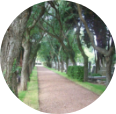
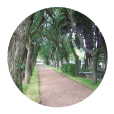
fotos y pesos

diff --git a/index.html b/index.html
@@ -78,22 +78,22 @@
                     <div class="container">
                         <div class="row">
                             <div class="col-lg-3 col-md-6 col-sm-6">
-                                <div class="img"><img src="./Assets/BC-homeimg-Proximidad.png" alt="img-proximidad"></div>
+                                <div class="img"><img height="114" width="114" srcset="./Assets/BC-homeimg-Proximidad.png 1x, ./Assets/BC-homeimg-Proximidad@2x.png 2x" alt="img-proximidad"></div>
                                 <h3>Proximidad</h3>
                                 <p>Tus recuerdos, más cerca. En el corazón de la ciudad y de fácil acceso para visitas.</p>
                             </div>
                             <div class="col-lg-3 col-md-6 col-sm-6">
-                                <div class="img"><img src="./Assets/BC-homeimg-Proximidad.png" alt="img-apertura"></div>
+                                <div class="img"><img height="114" width="114" srcset="./Assets/BC-homeimg-apertura.png 1x, ./Assets/BC-homeimg-apertura@2x.png 2x" alt="img-apertura"></div>
                                 <h3>Apertura</h3>
                                 <p>Un cementerio con orígenes británicos, abierto a todas las nacionalidades y credos.</p>
                             </div>
                             <div class="col-lg-3 col-md-6 col-sm-6">
-                                <div class="img"><img src="./Assets/BC-homeimg-Proximidad.png" alt="img-trayectoria"></div>
+                                <div class="img"><img height="114" width="114" srcset="./Assets/BC-homeimg-tradicion.png 1x, ./Assets/BC-homeimg-tradicion@2x.png 2x" alt="img-trayectoria"></div>
                                 <h3>Trayectoria</h3>
                                 <p>Desde 1828, una historia viva que crea memorias, cultura y mantiene la tradición familiar.</p>
                             </div>
                             <div class="col-lg-3 col-md-6 col-sm-6">
-                                <div class="img"><img src="./Assets/BC-homeimg-Proximidad.png" alt="img-entorno"></div>
+                                <div class="img"><img height="114" width="114" srcset="./Assets/BC-homeimg-entorno.png 1x, ./Assets/BC-homeimg-entorno@2x.png 2x" alt="img-entorno"></div>
                                 <h3>Entorno</h3>
                                 <p>Un cementerio jardín, rodeado de rosales y arboladas en el corazón de la ciudad.
                                 </p>
@@ -107,7 +107,7 @@
                     <div class="container">
                         <div class="row">
                             <div class="col-md-6 d-lg-none d-md-flex justify-content-md-end">
-                                <img class="img-dos d-lg-flex" height="355" width="400" srcset="./Assets/BC-homeimg-servicios.png 1x, ./Assets/BC-homeimg-servicios@2x.png 2x" alt="img-servicios-md">
+                                <img class="img-dos d-lg-flex" height="355" width="400" srcset="./Assets/BC-homeimg-modulo-servicios.png 1x, ./Assets/BC-homeimg-modulo-servicios@2x.webp 2x" alt="img-servicios-md">
                             </div>
                             <div class="col-12 col-md-6">
                                 <div data-aos="fade-up" data-aos-anchor-placement="bottom-bottom"><h2>Brindamos servicios personalizados</h2></div>
@@ -115,12 +115,12 @@
                                 <a href="./pages/servicios.html">Lee más sobre servicios</a>
                             </div>
                             <div class="col-lg-6 d-md-none d-none  d-xs-none d-lg-flex justify-content-lg-end">
-                                <img class="img-dos d-lg-flex" height="355" width="400" srcset="./Assets/BC-homeimg-servicios.png 1x, ./Assets/BC-homeimg-servicios@2x.png 2x" alt="img-servicios-lg">
+                                <img class="img-dos d-lg-flex" height="355" width="400" srcset="./Assets/BC-homeimg-modulo-servicios.png 1x, ./Assets/BC-homeimg-modulo-servicios@2x.webp 2x" alt="img-servicios-lg">
                             </div>
                         </div>
                         <div class="row">
                             <div class="col-12 col-md-6">
-                                <img class="img-dos d-lg-flex" height="355" width="400" srcset="./Assets/BC-homeimg-servicios.png 1x, ./Assets/BC-homeimg-servicios@2x.png 2x" alt="img-sobrenos">
+                                <img class="img-dos d-lg-flex" height="355" width="400" srcset="./Assets/BC-homeimg-modulo-galeria.png 1x, ./Assets/BC-homeimg-modulo-galeria@2x.webp 2x" alt="img-sobrenos">
                             </div>
                             <div class="col-12 col-md-6">
                                 <div data-aos="fade-up" data-aos-anchor-placement="bottom-bottom"><h2>Único Cementerio privado de Montevideo</h2></div>
@@ -142,7 +142,7 @@
                     <div class="container">
                         <div class="row">
                             <div class="col-md-6 d-lg-none d-md-flex justify-content-md-end">
-                                <img class="img-dos d-lg-flex" height="355" width="400" srcset="./Assets/BC-homeimg-servicios.png 1x, ./Assets/BC-homeimg-servicios@2x.png 2x" alt="img-eventos-md">
+                                <img class="img-dos d-lg-flex" height="355" width="400" srcset="./Assets/BC-homeimg-modulo-eventos.png 1x, ./Assets/BC-homeimg-modulo-eventos@2x.webp" alt="img-eventos-md">
                             </div>
                             <div class="col-12 col-md-6">
                                 <div data-aos="fade-up" data-aos-anchor-placement="bottom-bottom"><h2>Difundimos eventos culturales y artísticos</h2></div>
@@ -150,12 +150,12 @@
                                 <a href="./pages/galeria.html">Mira nuestros eventos</a>
                             </div>
                             <div class="col-lg-6 d-md-none d-none  d-xs-none d-lg-flex justify-content-lg-end">
-                                <img class="img-dos d-lg-flex" height="355" width="400" srcset="./Assets/BC-homeimg-servicios.png 1x, ./Assets/BC-homeimg-servicios@2x.png 2x" alt="img-eventos-lg">
+                                <img class="img-dos d-lg-flex" height="355" width="400" srcset="./Assets/BC-homeimg-modulo-eventos.png 1x, ./Assets/BC-homeimg-modulo-eventos@2x.webp" alt="img-eventos-lg">
                             </div>
                         </div>
                         <div class="row">
                             <div class="col-12 col-md-6">
-                                <img class="img-dos d-lg-flex" height="355" width="400" srcset="./Assets/BC-homeimg-servicios.png 1x, ./Assets/BC-homeimg-servicios@2x.png 2x" alt="img-galeria-md">
+                                <img class="img-dos d-lg-flex" height="355" width="400" srcset="./Assets/BC-homeimg-modulo-sobrenos.png 1x, ./Assets/BC-homeimg-modulo-sobrenos@2x.webp 2x" alt="img-galeria-md">
                             </div>
                             <div class="col-12 col-md-6">
                                 <div data-aos="fade-up" data-aos-anchor-placement="bottom-bottom"><h2>Cementerio Jardín</h2></div>

diff --git a/pages/servicios.html b/pages/servicios.html
@@ -72,22 +72,22 @@
                     <div class="container">
                         <div class="row">
                             <div class="col-lg-3 col-md-6 col-sm-6">
-                                <div class="img"><img src="../Assets/BC-homeimg-Proximidad.png" alt="img-entierros"></div>
+                                <div class="img"><img height="114" width="114" srcset="../Assets/BC-servicio-entierro.png 1x, ../Assets/BC-servicio-entierro@2x.png 2x"  alt="img-entierros"></div>
                                 <h3>Entierro</h3>
                                 <p>Tenemos personal entrenado, con mucha experiencia y que presenta amplia disposición.</p>
                             </div>
                             <div class="col-lg-3 col-md-6 col-sm-6">
-                                <div class="img"><img src="../Assets/BC-homeimg-diversidad.png" alt="img-cenizas"></div>
+                                <div class="img"><img height="114" width="114" srcset="../Assets/BC-servicio-cenisas.png 1x, ../Assets/BC-servicio-cenisas@2x.png 2x"  alt="img-cenizas"></div>
                                 <h3>Cenizas</h3>
                                 <p>Realizamos entierros de cenizas en los panteones para quienes prefieran esta opcción.</p>
                             </div>
                             <div class="col-lg-3 col-md-6 col-sm-6">
-                                <div class="img"><img src="../Assets/BC-homeimg-tradicion.png" alt="img-reducciones"></div>
+                                <div class="img"><img height="114" width="114" srcset="../Assets/BC-servicio-reducciones.png 1x, ../Assets/BC-servicio-reducciones@2x.png 2x"  alt="img-reducciones"></div>
                                 <h3>Reducciones</h3>
                                 <p>Las reducciones son llevado a cabo por profesionales que garantizan el respeto y la dignidad.</p>
                             </div>
                             <div class="col-lg-3 col-md-6 col-sm-6">
-                                <div class="img"><img src="../Assets/BC-homeimg-cementeriojardin.png" alt="img-capilla"></div>
+                                <div class="img"><img height="114" width="114" srcset="../Assets/BC-servicio-capilla.png 1x, ../Assets/BC-servicio-capilla@2x.png 2x"  alt="img-capilla"></div>
                                 <h3>Capilla</h3>
                                 <p>Contamos con una capilla en dónde se pueden realizar homenajes y velatorios.
                                 </p>
@@ -101,7 +101,7 @@
                     <div class="container">
                         <div class="row">
                             <div class="col-md-6 d-lg-none d-md-flex justify-content-md-end">
-                                <img class="img-dos d-lg-flex" height="482" width="400" srcset="./Assets/BC-img-servicios-modulo-01 1x, ./Assets/BC-img-servicios-modulo-01@2x.png 2x" alt="img-sepulcros-panteones">
+                                <img class="img-dos d-lg-flex" height="482" width="400" srcset="./Assets/BC-img-servicios-modulo-01 1x, ./Assets/BC-img-servicios-modulo-01@2x.webp 2x" alt="img-sepulcros-panteones">
                             </div>
                             <div class="col-12 col-md-6">
                                 <div data-aos="fade-up" data-aos-anchor-placement="bottom-bottom"><h2>Sepulcros y Panteones</h2></div>
@@ -114,12 +114,12 @@
                     optimizar el uso del espacio por medio de reducciones.</p></div>
                             </div>
                             <div class="col-lg-6 d-md-none d-none  d-xs-none d-lg-flex justify-content-lg-end">
-                                <img class="img-dos d-lg-flex" height="440" width="400" srcset="../Assets/BC-img-servicios-modulo-01.png 1x, ../Assets/BC-img-servicios-modulo-01@2x.png 2x" alt="img-prestaciones">
+                                <img class="img-dos d-lg-flex" height="440" width="400" srcset="../Assets/BC-img-servicios-modulo-01.png 1x, ../Assets/BC-img-servicios-modulo-01@2x.webp 2x" alt="img-prestaciones">
                             </div>
                         </div>
                         <div class="row">
                             <div class="col-12 col-md-6">
-                                <img class="img-dos d-lg-flex" height="520" width="400" srcset="../Assets/BC-img-servicios-modulo-02 1x, ../Assets/BC-img-servicios-modulo-02@2x.png 2x" alt="servicios">
+                                <img class="img-dos d-lg-flex" height="520" width="400" srcset="../Assets/BC-img-servicios-modulo-02 1x, ../Assets/BC-img-servicios-modulo-02@2x.webp 2x" alt="servicios">
                             </div>
                             <div class="col-12 col-md-6">
                                 <div data-aos="fade-up" data-aos-anchor-placement="bottom-bottom"><h2>Prestaciones</h2></div>

diff --git a/pages/galeria.html b/pages/galeria.html
@@ -69,19 +69,19 @@
     </section>  
         <section class="fotosgaleria">
             <div class="fotocolumna1">
-                <div class="foto1col1"><img src="../Assets/BC-galeria-01.png" alt="foto1"></div>
-                <div class="foto1col1"><img src="../Assets/BC-galeria-02.png" alt="foto2"></div>
-                <div class="foto3col1"><img src="../Assets/BC-galeria-03.png" alt="foto3"></div>
+                <div class="foto1col1"><img src="../Assets/BC-galeria-01.webp" alt="foto-gailta"></div>
+                <div class="foto1col1"><img src="../Assets/BC-galeria-02.webp" alt="foto-capilla"></div>
+                <div class="foto3col1"><img src="../Assets/BC-galeria-03.webp" alt="foto-evento"></div>
             </div>
             <div class="fotocolumna1">
-                <div class="foto1col1"><img src="../Assets/BC-galeria-01.png" alt="foto4"></div>
-                <div class="foto3col1"><img src="../Assets/BC-galeria-03.png" alt="foto6"></div>
-                <div class="foto1col1"><img src="../Assets/BC-galeria-02.png" alt="foto5"></div>
+                <div class="foto1col1"><img src="../Assets/BC-galeria-01.webp" alt="foto-paisaje"></div>
+                <div class="foto3col1"><img src="../Assets/BC-galeria-03.webp" alt="foto-sepulcro"></div>
+                <div class="foto1col1"><img src="../Assets/BC-galeria-02.webp" alt="foto5"></div>
             </div>
             <div class="fotocolumna1">
-                <div class="foto3col1"><img src="../Assets/BC-galeria-03.png" alt="foto6"></div>
-                <div class="foto1col1"><img src="../Assets/BC-galeria-01.png" alt="foto4"></div>
-                <div class="foto1col1"><img src="../Assets/BC-galeria-02.png" alt="foto5"></div>
+                <div class="foto3col1"><img src="../Assets/BC-galeria-03.webp" alt="foto-cementerio"></div>
+                <div class="foto1col1"><img src="../Assets/BC-galeria-01.webp" alt="foto-britanica"></div>
+                <div class="foto1col1"><img src="../Assets/BC-galeria-02.webp" alt="foto-entierro"></div>
             </div>
         </section>          
             <section class="newsletter">

diff --git a/pages/sobrenosotros.html b/pages/sobrenosotros.html
@@ -110,7 +110,7 @@
                     <div class="container">
                         <div class="row">
                             <div class="col-md-6 d-lg-none d-md-flex justify-content-md-end">
-                                <img class="img-dos d-lg-flex" height="355" width="400" srcset="../Assets/BC-img-sobrenosotros-modulo-01.png 1x, ../Assets/BC-img-sobrenosotros-modulo-01@2x.png 2x" alt="img-quienes-somos-md">
+                                <img class="img-dos d-lg-flex" height="355" width="400" srcset="../Assets/BC-img-sobrenosotros-modulo-01.png 1x, ../Assets/BC-img-sobrenosotros-modulo-01@2x.webp 2x" alt="img-quienes-somos-md">
                             </div>
                             <div class="col-12 col-md-6">
                                 <div data-aos="fade-up" data-aos-anchor-placement="bottom-bottom"><h2>Quiénes somos</h2></div>
@@ -124,7 +124,7 @@
                         </div>
                         <div class="row">
                             <div class="col-12 col-md-6">
-                                <img cOlass="img-dos d-lg-flex" height="482" width="400" srcset="../Assets/BC-img-somosnosotros-modulos-02.png 1x, ../Assets/BC-img-somosnosotros-modulos-02@2x.png 2x" alt="img-nuestra-historia">
+                                <img cOlass="img-dos d-lg-flex" height="482" width="400" srcset="../Assets/BC-img-somosnosotros-modulos-02.png 1x, ../Assets/BC-img-somosnosotros-modulos-02@2x.webp 2x" alt="img-nuestra-historia">
                             </div>
                             <div class="col-12 col-md-6">
                                 <div data-aos="fade-up" data-aos-anchor-placement="bottom-bottom"><h2>Nuestra historia</h2></div>
